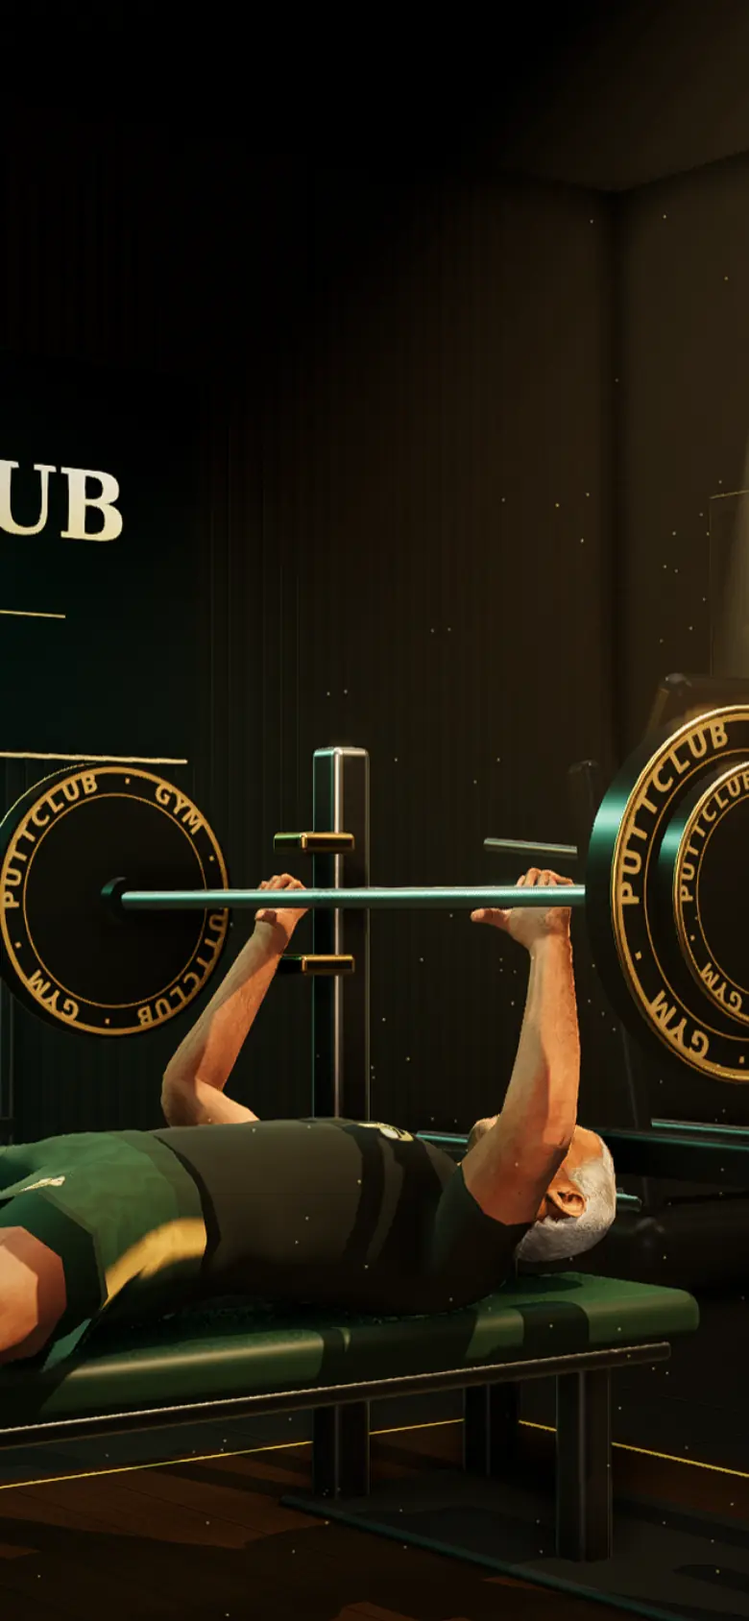
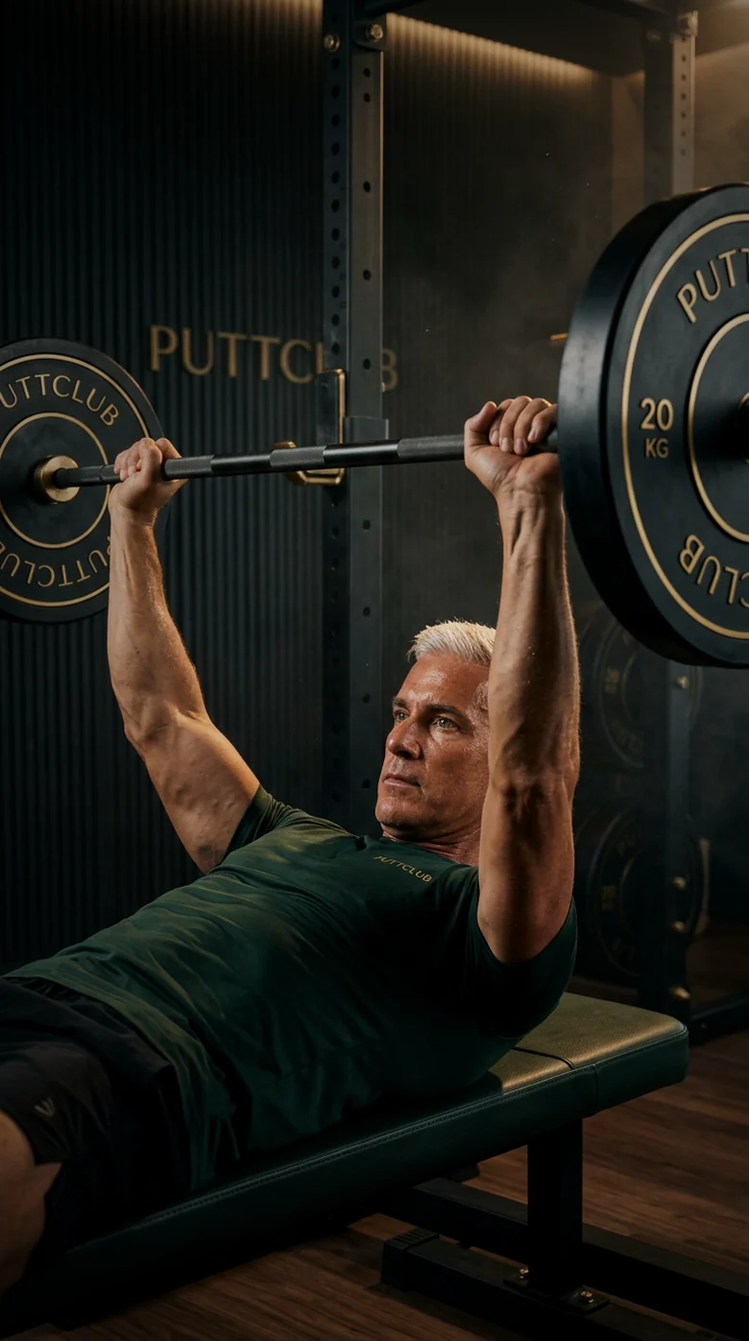
v1.2.0: remove demo login (real academy accounts only), AI photoreal login hero + character cards, shared Supabase mock for tests

diff --git a/index.html b/index.html
@@ -40,7 +40,7 @@ svg{display:block}
 
 /* ---------- login ---------- */
 #login{position:absolute;inset:0;z-index:50;display:flex;flex-direction:column;justify-content:flex-end;background:#000;overflow:hidden}
-#login .bg{position:absolute;inset:25% 0 33% 0;background:#000 url(assets/login.webp) center 74%/cover no-repeat;transform:scale(1.06);animation:kb 22s var(--ease) infinite alternate;-webkit-mask-image:linear-gradient(180deg,transparent 0%,#000 26%,#000 62%,transparent 100%);mask-image:linear-gradient(180deg,transparent 0%,#000 26%,#000 62%,transparent 100%)}
+#login .bg{position:absolute;inset:25% 0 33% 0;background:#000 url(assets/login.webp) center 50%/cover no-repeat;transform:scale(1.06);animation:kb 22s var(--ease) infinite alternate;-webkit-mask-image:linear-gradient(180deg,transparent 0%,#000 26%,#000 62%,transparent 100%);mask-image:linear-gradient(180deg,transparent 0%,#000 26%,#000 62%,transparent 100%)}
 @keyframes kb{to{transform:scale(1.0) translateY(-1.5%)}}
 #login .shade{position:absolute;inset:0;background:radial-gradient(70% 30% at 50% 14%,rgba(233,196,106,.10),transparent 70%),radial-gradient(90% 26% at 50% 50%,rgba(13,53,39,.35),transparent 70%)}
 #login .brand{position:absolute;top:calc(var(--sat) + 5.5vh);inset-inline:0;text-align:center}
@@ -215,7 +215,7 @@ svg{display:block}
 .pf p{margin:0;color:var(--t2);font-size:13px;direction:ltr}
 .chars{display:grid;grid-template-columns:repeat(4,1fr);gap:8px;margin-top:12px}
 .chars button{border-radius:16px;background:var(--card2);padding:8px 0 8px;font-size:11.5px;font-weight:700;color:var(--t2);position:relative;overflow:hidden;transition:box-shadow .2s}
-.chars button img{width:100%;height:96px;object-fit:cover;object-position:50% 8%;display:block}
+.chars button img{width:100%;height:150px;object-fit:cover;object-position:50% 50%;display:block;-webkit-mask-image:linear-gradient(180deg,#000 82%,transparent);mask-image:linear-gradient(180deg,#000 82%,transparent)}
 .chars button.on{box-shadow:inset 0 0 0 2px var(--gold);color:var(--gold2)}
 .tg{width:51px;height:31px;border-radius:99px;background:#39393d;position:relative;transition:background .25s;flex:none}
 .tg::after{content:"";position:absolute;top:2px;right:2px;width:27px;height:27px;border-radius:50%;background:#fff;box-shadow:0 3px 8px rgba(0,0,0,.3);transition:transform .25s var(--ease)}
@@ -326,7 +326,7 @@ svg{display:block}
  #login .brand img{width:54px;height:54px}
  .wordmark{font-size:23px;margin-top:8px}
  #login .tag,#login p.sub{display:none}
- #login .bg{inset:23% 0 45% 0}
+ #login .bg{inset:23% 0 45% 0;background-position:center 44%}
  #login h2{font-size:22px}
  #login form{gap:10px;padding-bottom:calc(var(--sab) + 16px)}
  .field input,#login .btn-gold{height:50px}
@@ -354,7 +354,6 @@ svg{display:block}
    <div class="field"><input id="lp" class="ltr" name="password" type="password" autocomplete="current-password" placeholder="رمز عبور"></div>
    <div class="err" id="lerr"></div>
    <button class="btn-gold" id="lbtn" type="submit">ورود</button>
-   <button class="btn-ghost" id="ldemo" type="button">ورود نمایشی با دادهٔ نمونه</button>
   </form>
  </section>
  <section class="tab" id="t-summary"></section>
@@ -378,7 +377,7 @@ svg{display:block}
    Auth: Supabase (same accounts as the academy panel — password changes / new users apply automatically).
    Data: dedicated database (schema «gym») through the single server gateway rpc/gym_api; device copy + offline queue.
    Access: «اشتراکها ← ماتریس دسترسی ← باشگاه پات کلاب» per plan, enforced on the server and mirrored in the UI. */
-const CFG={url:'https://iultwqtzvrysugfxwshw.supabase.co',key:'sb_publishable_058vN6QjD4sUC9Mam5izUg__vjKt9d0',domain:'members.puttclub.ir',ver:'1.1.0'};
+const CFG={url:'https://iultwqtzvrysugfxwshw.supabase.co',key:'sb_publishable_058vN6QjD4sUC9Mam5izUg__vjKt9d0',domain:'members.puttclub.ir',ver:'1.2.0'};
 const GEO={"m":{"c":[0.1715,0.8465],"top":0.1784,"neck":[0.2733,0.4562,0.5425],"chest":[0.3353,0.385,0.615],"waist":[0.4289,0.405,0.5938],"hip":[0.5043,0.3812,0.6162],"biceps":[0.3645,0.32,0.374],"forearm":[0.4396,0.305,0.3575],"thigh":[0.5538,0.505,0.625],"calf":[0.6879,0.5312,0.6075]},"f":{"c":[0.166,0.8438],"top":0.1729,"neck":[0.288,0.465,0.5337],"chest":[0.3397,0.41,0.59],"waist":[0.4155,0.43,0.5687],"hip":[0.4857,0.39,0.6088],"biceps":[0.3664,0.3475,0.4],"forearm":[0.4333,0.3225,0.3675],"thigh":[0.5393,0.505,0.6125],"calf":[0.6821,0.54,0.6075]},"g":{"c":[0.1924,0.8479],"top":0.1993,"neck":[0.2914,0.4637,0.535],"chest":[0.343,0.405,0.595],"waist":[0.4187,0.4188,0.5813],"hip":[0.4888,0.395,0.6025],"biceps":[0.368,0.355,0.4075],"forearm":[0.4373,0.33,0.3725],"thigh":[0.5424,0.5038,0.6062],"calf":[0.6869,0.535,0.6062]},"t":{"c":[0.1931,0.8465],"top":0.2,"neck":[0.2955,0.4662,0.5325],"chest":[0.3548,0.38,0.62],"waist":[0.4444,0.3937,0.605],"hip":[0.5165,0.3912,0.6075],"biceps":[0.3825,0.3325,0.4],"forearm":[0.4545,0.31,0.3663],"thigh":[0.564,0.5012,0.615],"calf":[0.6922,0.525,0.6112]}};
 const $=(s,r=document)=>r.querySelector(s),$$=(s,r=document)=>Array.from(r.querySelectorAll(s));
 const fa=v=>String(v).replace(/\d/g,d=>'۰۱۲۳۴۵۶۷۸۹'[d]);
@@ -420,12 +419,15 @@ const LS={get(k,d){try{const v=localStorage.getItem(k);return v?JSON.parse(v):d;
 const S={sess:LS.get('pcgym.session',null),prof:LS.get('pcgym.profile',null),srv:LS.get('pcgym.srv',null),boot:null,data:null,tab:'summary',seg:'meas',mi:-1,day:wIdx(new Date()),skin:'fig'};
 function dataKey(){return 'pcgym.data.'+(S.prof?S.prof.user:'_');}
 function loadData(){S.data=Object.assign({v:1,logs:[],meas:[],active:null,start:null,pk:null,set:{sound:true,vib:true}},LS.get(dataKey(),{}));
+  /* دادهٔ نمونه/نمایشی دیگر وجود ندارد؛ باقیماندهٔ نسخههای قبلی پاک میشود (فقط رکوردهای s=true) */
+  if(S.data.logs.some(l=>l.s)||S.data.meas.some(m=>m.s)){S.data.logs=S.data.logs.filter(l=>!l.s);S.data.meas=S.data.meas.filter(m=>!m.s);S.mi=-1;}
+  delete S.data.sample;delete S.data.seeded;
   if(!S.data.start)S.data.start=weekStart(new Date()).toISOString();saveData();}
 function saveData(){LS.set(dataKey(),S.data);}
 const pk=()=>S.data&&S.data.pk||S.prof&&S.prof.pk||'m';
 const plan=()=>S.srv&&(S.srv.assigned||(S.srv.templates&&S.srv.templates[pk()]))||PLANS[pk()];
-/* access matrix («باشگاه پات کلاب»): absent = on; a parent off hides all its children; demo sees everything */
-const can=id=>{const a=S.prof&&S.prof.acc;if(!a||S.prof.demo)return true;const f=a.feats||{},ps=id.split('.');for(let i=1;i<=ps.length;i++){if(f[ps.slice(0,i).join('.')]===false)return false;}return true;};
+/* access matrix («باشگاه پات کلاب»): absent = on; a parent off hides all its children */
+const can=id=>{const a=S.prof&&S.prof.acc;if(!a)return true;const f=a.feats||{},ps=id.split('.');for(let i=1;i<=ps.length;i++){if(f[ps.slice(0,i).join('.')]===false)return false;}return true;};
 const TABF={summary:'gym.summary',train:'gym.train',progress:'gym.progress'};
 const tabOk=t=>!TABF[t]||can(TABF[t]);
 const lockCard=t=>`<div class="sec"><div class="card locked">${IC.lock.replace('width="12" height="12"','width="22" height="22"')}<b>${t}</b><p>این بخش در اشتراک فعلی شما فعال نیست. برای ارتقا با آکادمی پاتکلاب تماس بگیرید.</p></div></div>`;
@@ -504,13 +506,12 @@ async function refresh(){if(!S.sess||refreshing)return;refreshing=true;
     applyTabs();if(!$('#push').classList.contains('on'))go(tabOk(S.tab)?S.tab:firstTab());}
   catch(e){if(e.status!==401)SYNC.state='offline';updSync();}
   finally{refreshing=false;}}
-function demo(){S.sess=null;S.prof={user:'demo',name:'مهمان',role:'demo',gender:'مرد',age:40,hcp:12,photo:'',pk:'m',demo:true};LS.set('pcgym.profile',S.prof);}
 function signOut(msg){const t=S.sess&&S.sess.access_token;if(t)api('/auth/v1/logout?scope=local',{method:'POST',token:t}).catch(()=>{});
   S.sess=null;S.prof=null;S.srv=null;LS.del('pcgym.session');LS.del('pcgym.profile');LS.del('pcgym.srv');closePlayer();closePush();showLogin(msg||'');}
 /* cloud sync — waiting for DB approval; kept on device until then */
 const SYNC={state:'idle',last:0,busy:false,
   key(){return 'pcgym.q.'+(S.prof?S.prof.user:'_');},q(){return LS.get(this.key(),[]);},save(q){LS.set(this.key(),q);},
-  add(a,p,noFlush){if(!S.sess||!S.prof||S.prof.demo)return;const q=this.q().filter(o=>!(o.a===a&&p.id&&o.p.id===p.id));q.push({a,p});this.save(q);updSync();if(!noFlush)this.flush();},
+  add(a,p,noFlush){if(!S.sess||!S.prof)return;const q=this.q().filter(o=>!(o.a===a&&p.id&&o.p.id===p.id));q.push({a,p});this.save(q);updSync();if(!noFlush)this.flush();},
   async flush(){if(this.busy||!S.sess||!S.prof)return;this.busy=true;
     try{for(;;){const q=this.q();if(!q.length){this.state='ok';break;}const o=q[0];let r;
       try{r=await rpc(o.a,o.p);}catch(e){this.state=e.status===401?'auth':'offline';break;}
@@ -520,7 +521,7 @@ const SYNC={state:'idle',last:0,busy:false,
       this.last=Date.now();}}
     finally{this.busy=false;updSync();}}};
 function swap(arr,rec){const i=arr.findIndex(x=>x.id===rec.id);if(i>=0)arr[i]=Object.assign({},rec);}
-function syncText(){if(!S.prof||S.prof.demo)return 'حالت نمایشی — دادهها فقط روی همین دستگاه میمانند.';
+function syncText(){if(!S.prof)return '';
   const n=SYNC.q().length,t=SYNC.last?new Intl.DateTimeFormat('fa-IR',{hour:'2-digit',minute:'2-digit'}).format(new Date(SYNC.last)):'';
   if(n)return `${nf(n)} مورد روی دستگاه منتظر ارسال است${SYNC.state==='offline'?' — با وصل شدن اینترنت خودکار ارسال میشود':''}.`;
   if(SYNC.state==='offline')return 'آفلاین — آخرین نسخهٔ ذخیرهشده نمایش داده میشود.';
@@ -530,23 +531,6 @@ function updSync(){const e=$('#syncst');if(e){e.textContent=syncText();e.classLi
 /* ---------- sample data («نمونه») ---------- */
 const BASE={m:{height:181,weight:84.6,neck:41.5,biceps:36.4,forearm:31,chest:103.5,waist:89,hip:101,thigh:58.6,calf:38},f:{height:168,weight:61.2,neck:32,biceps:27,forearm:23.5,chest:88.5,waist:69.5,hip:95.5,thigh:54.5,calf:35},g:{height:158,weight:48.5,neck:30,biceps:23,forearm:21,chest:78,waist:63,hip:86,thigh:48,calf:32},t:{height:155,weight:46.5,neck:31,biceps:23.5,forearm:22,chest:77,waist:64.5,hip:82,thigh:45,calf:31}};
 const TREND={height:0,weight:-.55,neck:-.15,biceps:.25,forearm:.1,chest:.45,waist:-.8,hip:-.3,thigh:.2,calf:.05};
-function genSample(){
-  const P=plan(),k=pk(),logs=[],meas=[],ws=weekStart(new Date()),today=wIdx(new Date());
-  for(let w=6;w>=0;w--)for(const di of Object.keys(P.days).map(Number)){
-    if(w===0&&di>=today)continue;
-    const d=P.days[di],st=new Date(+ws-w*7*DAY+di*DAY+18.5*36e5),f=1-.012*w-(w===4?.01:0);
-    const kg=Math.round(d.kg*f/2.5)*2.5;
-    const sets=Array.from({length:d.sets},(_,i)=>({kg,reps:d.reps-(i===d.sets-1&&w%3===1?1:0),done:true}));
-    logs.push(mkLog({date:st.toISOString(),day:di,ex:d.ex,sets,dur:(d.sets*(d.rest+40))+180,s:1}));
-  }
-  for(let i=4;i>=0;i--){const m={date:new Date(+dayStart(new Date())-i*21*DAY+9*36e5).toISOString(),s:1};
-    MF.forEach(([f])=>{const b=BASE[k][f];m[f]=Math.round((b+TREND[f]*(4-i)*(b>60?1:.6)+(i===2&&f==='weight'?.6:0))*2)/2;});meas.push(m);}
-  return{logs,meas};
-}
-function setSample(on){const D=S.data;D.logs=D.logs.filter(l=>!l.s);D.meas=D.meas.filter(m=>!m.s);
-  if(on){const g=genSample();D.logs=D.logs.concat(g.logs).sort((a,b)=>a.date<b.date?-1:1);D.meas=D.meas.concat(g.meas).sort((a,b)=>a.date<b.date?-1:1);}
-  D.sample=!!on;saveData();S.mi=-1;}
-const hasSample=()=>S.data&&(S.data.logs.some(l=>l.s)||S.data.meas.some(m=>m.s));
 function mkLog(o){const done=o.sets.filter(s=>s.done&&s.kg>0&&s.reps>0);o.vol=done.reduce((a,s)=>a+s.kg*s.reps,0);o.e1rm=done.reduce((a,s)=>Math.max(a,e1(s.kg,s.reps)),0);o.nsets=done.length;o.id=o.id||('L'+Date.parse(o.date).toString(36)+Math.random().toString(36).slice(2,6));return o;}
 
 /* ---------- analytics ---------- */
@@ -625,7 +609,7 @@ function medal(ic,id){const g='md'+id;
 
 /* ---------- common UI ---------- */
 function avatar(){const p=S.prof||{};return p.photo?`<img src="${esc(p.photo)}" alt="">`:esc((p.name||'؟').trim().charAt(0));}
-function header(title){const d=fmtLong.format(new Date());return `<div class="nb">${title}</div><header class="lt"><div class="date">${d}${hasSample()?'<span class="pill-s">دادهٔ نمونه</span>':''}</div><div class="row"><h1>${title}</h1><button class="avatar" data-act="tab" data-t="me" aria-label="پروفایل">${avatar()}</button></div></header>`;}
+function header(title){const d=fmtLong.format(new Date());return `<div class="nb">${title}</div><header class="lt"><div class="date">${d}</div><div class="row"><h1>${title}</h1><button class="avatar" data-act="tab" data-t="me" aria-label="پروفایل">${avatar()}</button></div></header>`;}
 function toast(html,ms=2600){const t=$('#toast');t.innerHTML=html;t.classList.add('on');clearTimeout(t._h);t._h=setTimeout(()=>t.classList.remove('on'),ms);}
 function haptic(ms=12){if(S.data&&S.data.set.vib&&navigator.vibrate)try{navigator.vibrate(ms);}catch(e){}}
 
@@ -796,11 +780,11 @@ function vMe(){
   const standalone=matchMedia('(display-mode: standalone)').matches||navigator.standalone;
   return header('من')+`
   <div class="pf"><div class="avatar">${avatar()}</div><h2>${esc(p.name)} ${esc(p.family||'')}</h2><p>@${esc(p.user)}</p>
-   <div style="display:flex;gap:8px;justify-content:center;margin-top:12px">${p.hcp!=null?`<span class="chip">${IC.flag.replace('width="20" height="20"','width="14" height="14"')} هندیکپ ${nf(p.hcp)}</span>`:''}<span class="chip">${p.role==='admin'?'مدیر':p.demo?'حالت نمایشی':'عضو آکادمی'}</span></div></div>
+   <div style="display:flex;gap:8px;justify-content:center;margin-top:12px">${p.hcp!=null?`<span class="chip">${IC.flag.replace('width="20" height="20"','width="14" height="14"')} هندیکپ ${nf(p.hcp)}</span>`:''}<span class="chip">${p.role==='admin'?'مدیر':'عضو آکادمی'}</span></div></div>
   <div class="sec"><h3>کاراکتر من</h3><div class="card"><div class="mc" style="margin:0">بدن سهبعدی تو در باشگاه و صفحهٔ پیشرفت — بهصورت خودکار از جنسیت و سن انتخاب شده است.</div>
-   <div class="chars">${['m','f','t','g'].map(c=>`<button data-act="char" data-c="${c}" class="${c===k?'on':''}"><img src="assets/fig_${c}.webp" alt="" loading="lazy">${CHAR[c].split(' · ')[0]}<br><small style="font-weight:500;opacity:.7">${CHAR[c].split(' · ')[1]}</small></button>`).join('')}</div></div></div>
+   <div class="chars">${['m','f','t','g'].map(c=>`<button data-act="char" data-c="${c}" class="${c===k?'on':''}"><img src="assets/char_${c}.webp" alt="" loading="lazy">${CHAR[c].split(' · ')[0]}<br><small style="font-weight:500;opacity:.7">${CHAR[c].split(' · ')[1]}</small></button>`).join('')}</div></div></div>
   <div class="sec"><h3>مشخصات</h3><div class="list">${p.acc?row('اشتراک',p.acc.staff?'مدیر · دسترسی کامل':esc(PLAN_FA[p.acc.plan]||p.acc.plan||'—')+(p.acc.end?' · تا '+fmtDM.format(new Date(String(p.acc.end).slice(0,10)+'T12:00:00')):'')):''}${row('سن',p.age!=null?nf(p.age)+' سال':'—')}${row('جنسیت',esc(p.gender||'—'))}${row('قد',last&&last.height?nf1(last.height)+' cm':'—')}${row('وزن',last&&last.weight?nf1(last.weight)+' kg':'—')}</div></div>
-  <div class="sec"><h3>تنظیمات</h3><div class="list">${tg('tsound','صدای پایان استراحت',S.data.set.sound)}${tg('tvib','لرزش',S.data.set.vib,'در دستگاههای پشتیبانیشده')}${tg('tsample','دادهٔ نمونه',hasSample(),'برای دیدن نمودارها؛ با برچسب «نمونه»')}</div></div>
+  <div class="sec"><h3>تنظیمات</h3><div class="list">${tg('tsound','صدای پایان استراحت',S.data.set.sound)}${tg('tvib','لرزش',S.data.set.vib,'در دستگاههای پشتیبانیشده')}</div></div>
   <div class="sec"><h3>همگامسازی</h3><div class="card"><div class="mc sync" id="syncst" style="margin:0;line-height:1.9">${esc(syncText())}</div></div></div>
   ${standalone?'':`<div class="sec"><h3>نصب روی گوشی</h3><div class="card"><div class="mc" style="margin:0;line-height:2">آیفون: در Safari دکمهٔ «اشتراکگذاری» ← «Add to Home Screen».<br>اندروید: منوی مرورگر ← «نصب برنامه».</div></div></div>`}
   <div class="sec"><div class="list"><button class="li" style="width:100%" data-act="logout"><div class="tx"><b class="danger">خروج از حساب</b></div></button></div></div>
@@ -915,7 +899,6 @@ const ACT={
  skin:a=>{S.skin=a.dataset.s;$('#figA').style.opacity=S.skin==='fig'?1:0;$('#figB').style.opacity=S.skin==='mus'?1:0;$$('.mtog button').forEach(b=>b.classList.toggle('on',b.dataset.s===S.skin));},
  char:a=>{S.data.pk=a.dataset.c;saveData();SYNC.add('settings_save',{character:a.dataset.c});render('me');toast('کاراکتر تغییر کرد: '+CHAR[a.dataset.c]);},
  tsound:()=>{S.data.set.sound=!S.data.set.sound;saveData();SYNC.add('settings_save',{sound:S.data.set.sound});render('me');},tvib:()=>{S.data.set.vib=!S.data.set.vib;saveData();SYNC.add('settings_save',{vib:S.data.set.vib});render('me');},
- tsample:()=>{setSample(!hasSample());render('me');toast(hasSample()?'دادهٔ نمونه اضافه شد':'دادهٔ نمونه حذف شد');},
  logout:()=>{if(confirm('از حساب خارج میشوید؟'))signOut();}};
 document.addEventListener('click',e=>{const a=e.target.closest('[data-act]');if(!a)return;const f=ACT[a.dataset.act];if(f){e.preventDefault();f(a,e);}});
 document.addEventListener('input',setInput);
@@ -925,13 +908,14 @@ addEventListener('resize',()=>{if(S.tab==='progress'&&S.seg==='meas')drawStage()
 
 /* ---------- boot ---------- */
 function showLogin(msg){$('#login').classList.remove('hide');$('#lerr').textContent=msg||'';$('#tabbar').classList.add('off');}
-function enter(){$('#login').classList.add('hide');applyEx();loadData();if(S.prof.demo&&!S.data.seeded){setSample(true);S.data.seeded=true;saveData();}
+function enter(){$('#login').classList.add('hide');applyEx();loadData();
   if(S.boot){mergeServer(S.boot);S.boot=null;lastRefresh=SYNC.last=Date.now();SYNC.state='ok';}else if(S.sess)refresh();
   applyTabs();$('#tabbar').classList.remove('off');go(S.tab);if(S.data.active)setTimeout(()=>toast('جلسهٔ نیمهتمام داری — از تب تمرین ادامه بده'),900);}
 $('#lform').addEventListener('submit',async e=>{e.preventDefault();const b=$('#lbtn');b.disabled=true;b.innerHTML='<span class="spin"></span>';$('#lerr').textContent='';
   try{await signIn($('#lu').value,$('#lp').value);enter();}catch(err){$('#lerr').textContent=err.message;}finally{b.disabled=false;b.textContent='ورود';}});
-$('#ldemo').addEventListener('click',()=>{demo();enter();});
-if(S.prof&&(S.sess||S.prof.demo))enter();else showLogin('');
+/* فقط حساب واقعی سایت: پروفایل نمایشیِ قدیمی (نسخههای پیشین) پاک میشود */
+if(S.prof&&!S.sess){S.prof=null;LS.del('pcgym.profile');}
+if(S.prof&&S.sess)enter();else showLogin('');
 /* live: access-matrix / program / data changes from the academy arrive without re-login */
 addEventListener('online',()=>{SYNC.flush();refresh();});
 document.addEventListener('visibilitychange',()=>{if(document.visibilityState==='visible'&&S.sess&&Date.now()-lastRefresh>60000)refresh();});

diff --git a/src/app.js b/src/app.js
@@ -3,7 +3,7 @@
    Auth: Supabase (same accounts as the academy panel — password changes / new users apply automatically).
    Data: dedicated database (schema «gym») through the single server gateway rpc/gym_api; device copy + offline queue.
    Access: «اشتراکها ← ماتریس دسترسی ← باشگاه پات کلاب» per plan, enforced on the server and mirrored in the UI. */
-const CFG={url:'https://iultwqtzvrysugfxwshw.supabase.co',key:'sb_publishable_058vN6QjD4sUC9Mam5izUg__vjKt9d0',domain:'members.puttclub.ir',ver:'1.1.0'};
+const CFG={url:'https://iultwqtzvrysugfxwshw.supabase.co',key:'sb_publishable_058vN6QjD4sUC9Mam5izUg__vjKt9d0',domain:'members.puttclub.ir',ver:'1.2.0'};
 /*GEO*/
 const $=(s,r=document)=>r.querySelector(s),$$=(s,r=document)=>Array.from(r.querySelectorAll(s));
 const fa=v=>String(v).replace(/\d/g,d=>'۰۱۲۳۴۵۶۷۸۹'[d]);
@@ -45,12 +45,15 @@ const LS={get(k,d){try{const v=localStorage.getItem(k);return v?JSON.parse(v):d;
 const S={sess:LS.get('pcgym.session',null),prof:LS.get('pcgym.profile',null),srv:LS.get('pcgym.srv',null),boot:null,data:null,tab:'summary',seg:'meas',mi:-1,day:wIdx(new Date()),skin:'fig'};
 function dataKey(){return 'pcgym.data.'+(S.prof?S.prof.user:'_');}
 function loadData(){S.data=Object.assign({v:1,logs:[],meas:[],active:null,start:null,pk:null,set:{sound:true,vib:true}},LS.get(dataKey(),{}));
+  /* دادهٔ نمونه/نمایشی دیگر وجود ندارد؛ باقیماندهٔ نسخههای قبلی پاک میشود (فقط رکوردهای s=true) */
+  if(S.data.logs.some(l=>l.s)||S.data.meas.some(m=>m.s)){S.data.logs=S.data.logs.filter(l=>!l.s);S.data.meas=S.data.meas.filter(m=>!m.s);S.mi=-1;}
+  delete S.data.sample;delete S.data.seeded;
   if(!S.data.start)S.data.start=weekStart(new Date()).toISOString();saveData();}
 function saveData(){LS.set(dataKey(),S.data);}
 const pk=()=>S.data&&S.data.pk||S.prof&&S.prof.pk||'m';
 const plan=()=>S.srv&&(S.srv.assigned||(S.srv.templates&&S.srv.templates[pk()]))||PLANS[pk()];
-/* access matrix («باشگاه پات کلاب»): absent = on; a parent off hides all its children; demo sees everything */
-const can=id=>{const a=S.prof&&S.prof.acc;if(!a||S.prof.demo)return true;const f=a.feats||{},ps=id.split('.');for(let i=1;i<=ps.length;i++){if(f[ps.slice(0,i).join('.')]===false)return false;}return true;};
+/* access matrix («باشگاه پات کلاب»): absent = on; a parent off hides all its children */
+const can=id=>{const a=S.prof&&S.prof.acc;if(!a)return true;const f=a.feats||{},ps=id.split('.');for(let i=1;i<=ps.length;i++){if(f[ps.slice(0,i).join('.')]===false)return false;}return true;};
 const TABF={summary:'gym.summary',train:'gym.train',progress:'gym.progress'};
 const tabOk=t=>!TABF[t]||can(TABF[t]);
 const lockCard=t=>`<div class="sec"><div class="card locked">${IC.lock.replace('width="12" height="12"','width="22" height="22"')}<b>${t}</b><p>این بخش در اشتراک فعلی شما فعال نیست. برای ارتقا با آکادمی پاتکلاب تماس بگیرید.</p></div></div>`;
@@ -129,13 +132,12 @@ async function refresh(){if(!S.sess||refreshing)return;refreshing=true;
     applyTabs();if(!$('#push').classList.contains('on'))go(tabOk(S.tab)?S.tab:firstTab());}
   catch(e){if(e.status!==401)SYNC.state='offline';updSync();}
   finally{refreshing=false;}}
-function demo(){S.sess=null;S.prof={user:'demo',name:'مهمان',role:'demo',gender:'مرد',age:40,hcp:12,photo:'',pk:'m',demo:true};LS.set('pcgym.profile',S.prof);}
 function signOut(msg){const t=S.sess&&S.sess.access_token;if(t)api('/auth/v1/logout?scope=local',{method:'POST',token:t}).catch(()=>{});
   S.sess=null;S.prof=null;S.srv=null;LS.del('pcgym.session');LS.del('pcgym.profile');LS.del('pcgym.srv');closePlayer();closePush();showLogin(msg||'');}
 /* cloud sync — waiting for DB approval; kept on device until then */
 const SYNC={state:'idle',last:0,busy:false,
   key(){return 'pcgym.q.'+(S.prof?S.prof.user:'_');},q(){return LS.get(this.key(),[]);},save(q){LS.set(this.key(),q);},
-  add(a,p,noFlush){if(!S.sess||!S.prof||S.prof.demo)return;const q=this.q().filter(o=>!(o.a===a&&p.id&&o.p.id===p.id));q.push({a,p});this.save(q);updSync();if(!noFlush)this.flush();},
+  add(a,p,noFlush){if(!S.sess||!S.prof)return;const q=this.q().filter(o=>!(o.a===a&&p.id&&o.p.id===p.id));q.push({a,p});this.save(q);updSync();if(!noFlush)this.flush();},
   async flush(){if(this.busy||!S.sess||!S.prof)return;this.busy=true;
     try{for(;;){const q=this.q();if(!q.length){this.state='ok';break;}const o=q[0];let r;
       try{r=await rpc(o.a,o.p);}catch(e){this.state=e.status===401?'auth':'offline';break;}
@@ -145,7 +147,7 @@ const SYNC={state:'idle',last:0,busy:false,
       this.last=Date.now();}}
     finally{this.busy=false;updSync();}}};
 function swap(arr,rec){const i=arr.findIndex(x=>x.id===rec.id);if(i>=0)arr[i]=Object.assign({},rec);}
-function syncText(){if(!S.prof||S.prof.demo)return 'حالت نمایشی — دادهها فقط روی همین دستگاه میمانند.';
+function syncText(){if(!S.prof)return '';
   const n=SYNC.q().length,t=SYNC.last?new Intl.DateTimeFormat('fa-IR',{hour:'2-digit',minute:'2-digit'}).format(new Date(SYNC.last)):'';
   if(n)return `${nf(n)} مورد روی دستگاه منتظر ارسال است${SYNC.state==='offline'?' — با وصل شدن اینترنت خودکار ارسال میشود':''}.`;
   if(SYNC.state==='offline')return 'آفلاین — آخرین نسخهٔ ذخیرهشده نمایش داده میشود.';
@@ -155,23 +157,6 @@ function updSync(){const e=$('#syncst');if(e){e.textContent=syncText();e.classLi
 /* ---------- sample data («نمونه») ---------- */
 const BASE={m:{height:181,weight:84.6,neck:41.5,biceps:36.4,forearm:31,chest:103.5,waist:89,hip:101,thigh:58.6,calf:38},f:{height:168,weight:61.2,neck:32,biceps:27,forearm:23.5,chest:88.5,waist:69.5,hip:95.5,thigh:54.5,calf:35},g:{height:158,weight:48.5,neck:30,biceps:23,forearm:21,chest:78,waist:63,hip:86,thigh:48,calf:32},t:{height:155,weight:46.5,neck:31,biceps:23.5,forearm:22,chest:77,waist:64.5,hip:82,thigh:45,calf:31}};
 const TREND={height:0,weight:-.55,neck:-.15,biceps:.25,forearm:.1,chest:.45,waist:-.8,hip:-.3,thigh:.2,calf:.05};
-function genSample(){
-  const P=plan(),k=pk(),logs=[],meas=[],ws=weekStart(new Date()),today=wIdx(new Date());
-  for(let w=6;w>=0;w--)for(const di of Object.keys(P.days).map(Number)){
-    if(w===0&&di>=today)continue;
-    const d=P.days[di],st=new Date(+ws-w*7*DAY+di*DAY+18.5*36e5),f=1-.012*w-(w===4?.01:0);
-    const kg=Math.round(d.kg*f/2.5)*2.5;
-    const sets=Array.from({length:d.sets},(_,i)=>({kg,reps:d.reps-(i===d.sets-1&&w%3===1?1:0),done:true}));
-    logs.push(mkLog({date:st.toISOString(),day:di,ex:d.ex,sets,dur:(d.sets*(d.rest+40))+180,s:1}));
-  }
-  for(let i=4;i>=0;i--){const m={date:new Date(+dayStart(new Date())-i*21*DAY+9*36e5).toISOString(),s:1};
-    MF.forEach(([f])=>{const b=BASE[k][f];m[f]=Math.round((b+TREND[f]*(4-i)*(b>60?1:.6)+(i===2&&f==='weight'?.6:0))*2)/2;});meas.push(m);}
-  return{logs,meas};
-}
-function setSample(on){const D=S.data;D.logs=D.logs.filter(l=>!l.s);D.meas=D.meas.filter(m=>!m.s);
-  if(on){const g=genSample();D.logs=D.logs.concat(g.logs).sort((a,b)=>a.date<b.date?-1:1);D.meas=D.meas.concat(g.meas).sort((a,b)=>a.date<b.date?-1:1);}
-  D.sample=!!on;saveData();S.mi=-1;}
-const hasSample=()=>S.data&&(S.data.logs.some(l=>l.s)||S.data.meas.some(m=>m.s));
 function mkLog(o){const done=o.sets.filter(s=>s.done&&s.kg>0&&s.reps>0);o.vol=done.reduce((a,s)=>a+s.kg*s.reps,0);o.e1rm=done.reduce((a,s)=>Math.max(a,e1(s.kg,s.reps)),0);o.nsets=done.length;o.id=o.id||('L'+Date.parse(o.date).toString(36)+Math.random().toString(36).slice(2,6));return o;}
 
 /* ---------- analytics ---------- */
@@ -250,7 +235,7 @@ function medal(ic,id){const g='md'+id;
 
 /* ---------- common UI ---------- */
 function avatar(){const p=S.prof||{};return p.photo?`<img src="${esc(p.photo)}" alt="">`:esc((p.name||'؟').trim().charAt(0));}
-function header(title){const d=fmtLong.format(new Date());return `<div class="nb">${title}</div><header class="lt"><div class="date">${d}${hasSample()?'<span class="pill-s">دادهٔ نمونه</span>':''}</div><div class="row"><h1>${title}</h1><button class="avatar" data-act="tab" data-t="me" aria-label="پروفایل">${avatar()}</button></div></header>`;}
+function header(title){const d=fmtLong.format(new Date());return `<div class="nb">${title}</div><header class="lt"><div class="date">${d}</div><div class="row"><h1>${title}</h1><button class="avatar" data-act="tab" data-t="me" aria-label="پروفایل">${avatar()}</button></div></header>`;}
 function toast(html,ms=2600){const t=$('#toast');t.innerHTML=html;t.classList.add('on');clearTimeout(t._h);t._h=setTimeout(()=>t.classList.remove('on'),ms);}
 function haptic(ms=12){if(S.data&&S.data.set.vib&&navigator.vibrate)try{navigator.vibrate(ms);}catch(e){}}
 
@@ -421,11 +406,11 @@ function vMe(){
   const standalone=matchMedia('(display-mode: standalone)').matches||navigator.standalone;
   return header('من')+`
   <div class="pf"><div class="avatar">${avatar()}</div><h2>${esc(p.name)} ${esc(p.family||'')}</h2><p>@${esc(p.user)}</p>
-   <div style="display:flex;gap:8px;justify-content:center;margin-top:12px">${p.hcp!=null?`<span class="chip">${IC.flag.replace('width="20" height="20"','width="14" height="14"')} هندیکپ ${nf(p.hcp)}</span>`:''}<span class="chip">${p.role==='admin'?'مدیر':p.demo?'حالت نمایشی':'عضو آکادمی'}</span></div></div>
+   <div style="display:flex;gap:8px;justify-content:center;margin-top:12px">${p.hcp!=null?`<span class="chip">${IC.flag.replace('width="20" height="20"','width="14" height="14"')} هندیکپ ${nf(p.hcp)}</span>`:''}<span class="chip">${p.role==='admin'?'مدیر':'عضو آکادمی'}</span></div></div>
   <div class="sec"><h3>کاراکتر من</h3><div class="card"><div class="mc" style="margin:0">بدن سهبعدی تو در باشگاه و صفحهٔ پیشرفت — بهصورت خودکار از جنسیت و سن انتخاب شده است.</div>
-   <div class="chars">${['m','f','t','g'].map(c=>`<button data-act="char" data-c="${c}" class="${c===k?'on':''}"><img src="assets/fig_${c}.webp" alt="" loading="lazy">${CHAR[c].split(' · ')[0]}<br><small style="font-weight:500;opacity:.7">${CHAR[c].split(' · ')[1]}</small></button>`).join('')}</div></div></div>
+   <div class="chars">${['m','f','t','g'].map(c=>`<button data-act="char" data-c="${c}" class="${c===k?'on':''}"><img src="assets/char_${c}.webp" alt="" loading="lazy">${CHAR[c].split(' · ')[0]}<br><small style="font-weight:500;opacity:.7">${CHAR[c].split(' · ')[1]}</small></button>`).join('')}</div></div></div>
   <div class="sec"><h3>مشخصات</h3><div class="list">${p.acc?row('اشتراک',p.acc.staff?'مدیر · دسترسی کامل':esc(PLAN_FA[p.acc.plan]||p.acc.plan||'—')+(p.acc.end?' · تا '+fmtDM.format(new Date(String(p.acc.end).slice(0,10)+'T12:00:00')):'')):''}${row('سن',p.age!=null?nf(p.age)+' سال':'—')}${row('جنسیت',esc(p.gender||'—'))}${row('قد',last&&last.height?nf1(last.height)+' cm':'—')}${row('وزن',last&&last.weight?nf1(last.weight)+' kg':'—')}</div></div>
-  <div class="sec"><h3>تنظیمات</h3><div class="list">${tg('tsound','صدای پایان استراحت',S.data.set.sound)}${tg('tvib','لرزش',S.data.set.vib,'در دستگاههای پشتیبانیشده')}${tg('tsample','دادهٔ نمونه',hasSample(),'برای دیدن نمودارها؛ با برچسب «نمونه»')}</div></div>
+  <div class="sec"><h3>تنظیمات</h3><div class="list">${tg('tsound','صدای پایان استراحت',S.data.set.sound)}${tg('tvib','لرزش',S.data.set.vib,'در دستگاههای پشتیبانیشده')}</div></div>
   <div class="sec"><h3>همگامسازی</h3><div class="card"><div class="mc sync" id="syncst" style="margin:0;line-height:1.9">${esc(syncText())}</div></div></div>
   ${standalone?'':`<div class="sec"><h3>نصب روی گوشی</h3><div class="card"><div class="mc" style="margin:0;line-height:2">آیفون: در Safari دکمهٔ «اشتراکگذاری» ← «Add to Home Screen».<br>اندروید: منوی مرورگر ← «نصب برنامه».</div></div></div>`}
   <div class="sec"><div class="list"><button class="li" style="width:100%" data-act="logout"><div class="tx"><b class="danger">خروج از حساب</b></div></button></div></div>
@@ -540,7 +525,6 @@ const ACT={
  skin:a=>{S.skin=a.dataset.s;$('#figA').style.opacity=S.skin==='fig'?1:0;$('#figB').style.opacity=S.skin==='mus'?1:0;$$('.mtog button').forEach(b=>b.classList.toggle('on',b.dataset.s===S.skin));},
  char:a=>{S.data.pk=a.dataset.c;saveData();SYNC.add('settings_save',{character:a.dataset.c});render('me');toast('کاراکتر تغییر کرد: '+CHAR[a.dataset.c]);},
  tsound:()=>{S.data.set.sound=!S.data.set.sound;saveData();SYNC.add('settings_save',{sound:S.data.set.sound});render('me');},tvib:()=>{S.data.set.vib=!S.data.set.vib;saveData();SYNC.add('settings_save',{vib:S.data.set.vib});render('me');},
- tsample:()=>{setSample(!hasSample());render('me');toast(hasSample()?'دادهٔ نمونه اضافه شد':'دادهٔ نمونه حذف شد');},
  logout:()=>{if(confirm('از حساب خارج میشوید؟'))signOut();}};
 document.addEventListener('click',e=>{const a=e.target.closest('[data-act]');if(!a)return;const f=ACT[a.dataset.act];if(f){e.preventDefault();f(a,e);}});
 document.addEventListener('input',setInput);
@@ -550,13 +534,14 @@ addEventListener('resize',()=>{if(S.tab==='progress'&&S.seg==='meas')drawStage()
 
 /* ---------- boot ---------- */
 function showLogin(msg){$('#login').classList.remove('hide');$('#lerr').textContent=msg||'';$('#tabbar').classList.add('off');}
-function enter(){$('#login').classList.add('hide');applyEx();loadData();if(S.prof.demo&&!S.data.seeded){setSample(true);S.data.seeded=true;saveData();}
+function enter(){$('#login').classList.add('hide');applyEx();loadData();
   if(S.boot){mergeServer(S.boot);S.boot=null;lastRefresh=SYNC.last=Date.now();SYNC.state='ok';}else if(S.sess)refresh();
   applyTabs();$('#tabbar').classList.remove('off');go(S.tab);if(S.data.active)setTimeout(()=>toast('جلسهٔ نیمهتمام داری — از تب تمرین ادامه بده'),900);}
 $('#lform').addEventListener('submit',async e=>{e.preventDefault();const b=$('#lbtn');b.disabled=true;b.innerHTML='<span class="spin"></span>';$('#lerr').textContent='';
   try{await signIn($('#lu').value,$('#lp').value);enter();}catch(err){$('#lerr').textContent=err.message;}finally{b.disabled=false;b.textContent='ورود';}});
-$('#ldemo').addEventListener('click',()=>{demo();enter();});
-if(S.prof&&(S.sess||S.prof.demo))enter();else showLogin('');
+/* فقط حساب واقعی سایت: پروفایل نمایشیِ قدیمی (نسخههای پیشین) پاک میشود */
+if(S.prof&&!S.sess){S.prof=null;LS.del('pcgym.profile');}
+if(S.prof&&S.sess)enter();else showLogin('');
 /* live: access-matrix / program / data changes from the academy arrive without re-login */
 addEventListener('online',()=>{SYNC.flush();refresh();});
 document.addEventListener('visibilitychange',()=>{if(document.visibilityState==='visible'&&S.sess&&Date.now()-lastRefresh>60000)refresh();});

diff --git a/src/app.css b/src/app.css
@@ -22,7 +22,7 @@ svg{display:block}
 
 /* ---------- login ---------- */
 #login{position:absolute;inset:0;z-index:50;display:flex;flex-direction:column;justify-content:flex-end;background:#000;overflow:hidden}
-#login .bg{position:absolute;inset:25% 0 33% 0;background:#000 url(assets/login.webp) center 74%/cover no-repeat;transform:scale(1.06);animation:kb 22s var(--ease) infinite alternate;-webkit-mask-image:linear-gradient(180deg,transparent 0%,#000 26%,#000 62%,transparent 100%);mask-image:linear-gradient(180deg,transparent 0%,#000 26%,#000 62%,transparent 100%)}
+#login .bg{position:absolute;inset:25% 0 33% 0;background:#000 url(assets/login.webp) center 50%/cover no-repeat;transform:scale(1.06);animation:kb 22s var(--ease) infinite alternate;-webkit-mask-image:linear-gradient(180deg,transparent 0%,#000 26%,#000 62%,transparent 100%);mask-image:linear-gradient(180deg,transparent 0%,#000 26%,#000 62%,transparent 100%)}
 @keyframes kb{to{transform:scale(1.0) translateY(-1.5%)}}
 #login .shade{position:absolute;inset:0;background:radial-gradient(70% 30% at 50% 14%,rgba(233,196,106,.10),transparent 70%),radial-gradient(90% 26% at 50% 50%,rgba(13,53,39,.35),transparent 70%)}
 #login .brand{position:absolute;top:calc(var(--sat) + 5.5vh);inset-inline:0;text-align:center}
@@ -197,7 +197,7 @@ svg{display:block}
 .pf p{margin:0;color:var(--t2);font-size:13px;direction:ltr}
 .chars{display:grid;grid-template-columns:repeat(4,1fr);gap:8px;margin-top:12px}
 .chars button{border-radius:16px;background:var(--card2);padding:8px 0 8px;font-size:11.5px;font-weight:700;color:var(--t2);position:relative;overflow:hidden;transition:box-shadow .2s}
-.chars button img{width:100%;height:96px;object-fit:cover;object-position:50% 8%;display:block}
+.chars button img{width:100%;height:150px;object-fit:cover;object-position:50% 50%;display:block;-webkit-mask-image:linear-gradient(180deg,#000 82%,transparent);mask-image:linear-gradient(180deg,#000 82%,transparent)}
 .chars button.on{box-shadow:inset 0 0 0 2px var(--gold);color:var(--gold2)}
 .tg{width:51px;height:31px;border-radius:99px;background:#39393d;position:relative;transition:background .25s;flex:none}
 .tg::after{content:"";position:absolute;top:2px;right:2px;width:27px;height:27px;border-radius:50%;background:#fff;box-shadow:0 3px 8px rgba(0,0,0,.3);transition:transform .25s var(--ease)}
@@ -308,7 +308,7 @@ svg{display:block}
  #login .brand img{width:54px;height:54px}
  .wordmark{font-size:23px;margin-top:8px}
  #login .tag,#login p.sub{display:none}
- #login .bg{inset:23% 0 45% 0}
+ #login .bg{inset:23% 0 45% 0;background-position:center 44%}
  #login h2{font-size:22px}
  #login form{gap:10px;padding-bottom:calc(var(--sab) + 16px)}
  .field input,#login .btn-gold{height:50px}

diff --git a/sw.js b/sw.js
@@ -1,8 +1,8 @@
 /* PuttClub Gym service worker: precached app shell + cache-first 3D player. Never touches API calls (other origins). */
-const V='pcgym-22f464694d';
+const V='pcgym-559015de1d';
 const SHELL=['./','index.html','manifest.webmanifest','fonts/vazirmatn-arabic-wght-normal.woff2','fonts/vazirmatn-latin-wght-normal.woff2',
  'assets/login.webp','assets/emblem.webp','icons/icon-192.png',
- ...['m','f','g','t'].flatMap(k=>[`assets/hero_${k}.webp`,`assets/fig_${k}.webp`,`assets/mus_${k}.webp`])];
+ ...['m','f','g','t'].flatMap(k=>[`assets/hero_${k}.webp`,`assets/fig_${k}.webp`,`assets/mus_${k}.webp`,`assets/char_${k}.webp`])];
 const PLAY='pcgym-play-6fb26fa640';
 self.addEventListener('install',e=>{e.waitUntil(caches.open(V).then(c=>c.addAll(SHELL)).then(()=>self.skipWaiting()));});
 self.addEventListener('activate',e=>{e.waitUntil(caches.keys().then(ks=>Promise.all(ks.filter(k=>k!==V&&k!==PLAY).map(k=>caches.delete(k)))).then(()=>self.clients.claim()));});

diff --git a/src/sw.js b/src/sw.js
@@ -2,7 +2,7 @@
 const V='pcgym-/*V*/';
 const SHELL=['./','index.html','manifest.webmanifest','fonts/vazirmatn-arabic-wght-normal.woff2','fonts/vazirmatn-latin-wght-normal.woff2',
  'assets/login.webp','assets/emblem.webp','icons/icon-192.png',
- ...['m','f','g','t'].flatMap(k=>[`assets/hero_${k}.webp`,`assets/fig_${k}.webp`,`assets/mus_${k}.webp`])];
+ ...['m','f','g','t'].flatMap(k=>[`assets/hero_${k}.webp`,`assets/fig_${k}.webp`,`assets/mus_${k}.webp`,`assets/char_${k}.webp`])];
 const PLAY='pcgym-play-/*PV*/';
 self.addEventListener('install',e=>{e.waitUntil(caches.open(V).then(c=>c.addAll(SHELL)).then(()=>self.skipWaiting()));});
 self.addEventListener('activate',e=>{e.waitUntil(caches.keys().then(ks=>Promise.all(ks.filter(k=>k!==V&&k!==PLAY).map(k=>caches.delete(k)))).then(()=>self.clients.claim()));});

diff --git a/src/shell.html b/src/shell.html
@@ -30,7 +30,6 @@
    <div class="field"><input id="lp" class="ltr" name="password" type="password" autocomplete="current-password" placeholder="رمز عبور"></div>
    <div class="err" id="lerr"></div>
    <button class="btn-gold" id="lbtn" type="submit">ورود</button>
-   <button class="btn-ghost" id="ldemo" type="button">ورود نمایشی با دادهٔ نمونه</button>
   </form>
  </section>
  <section class="tab" id="t-summary"></section>
